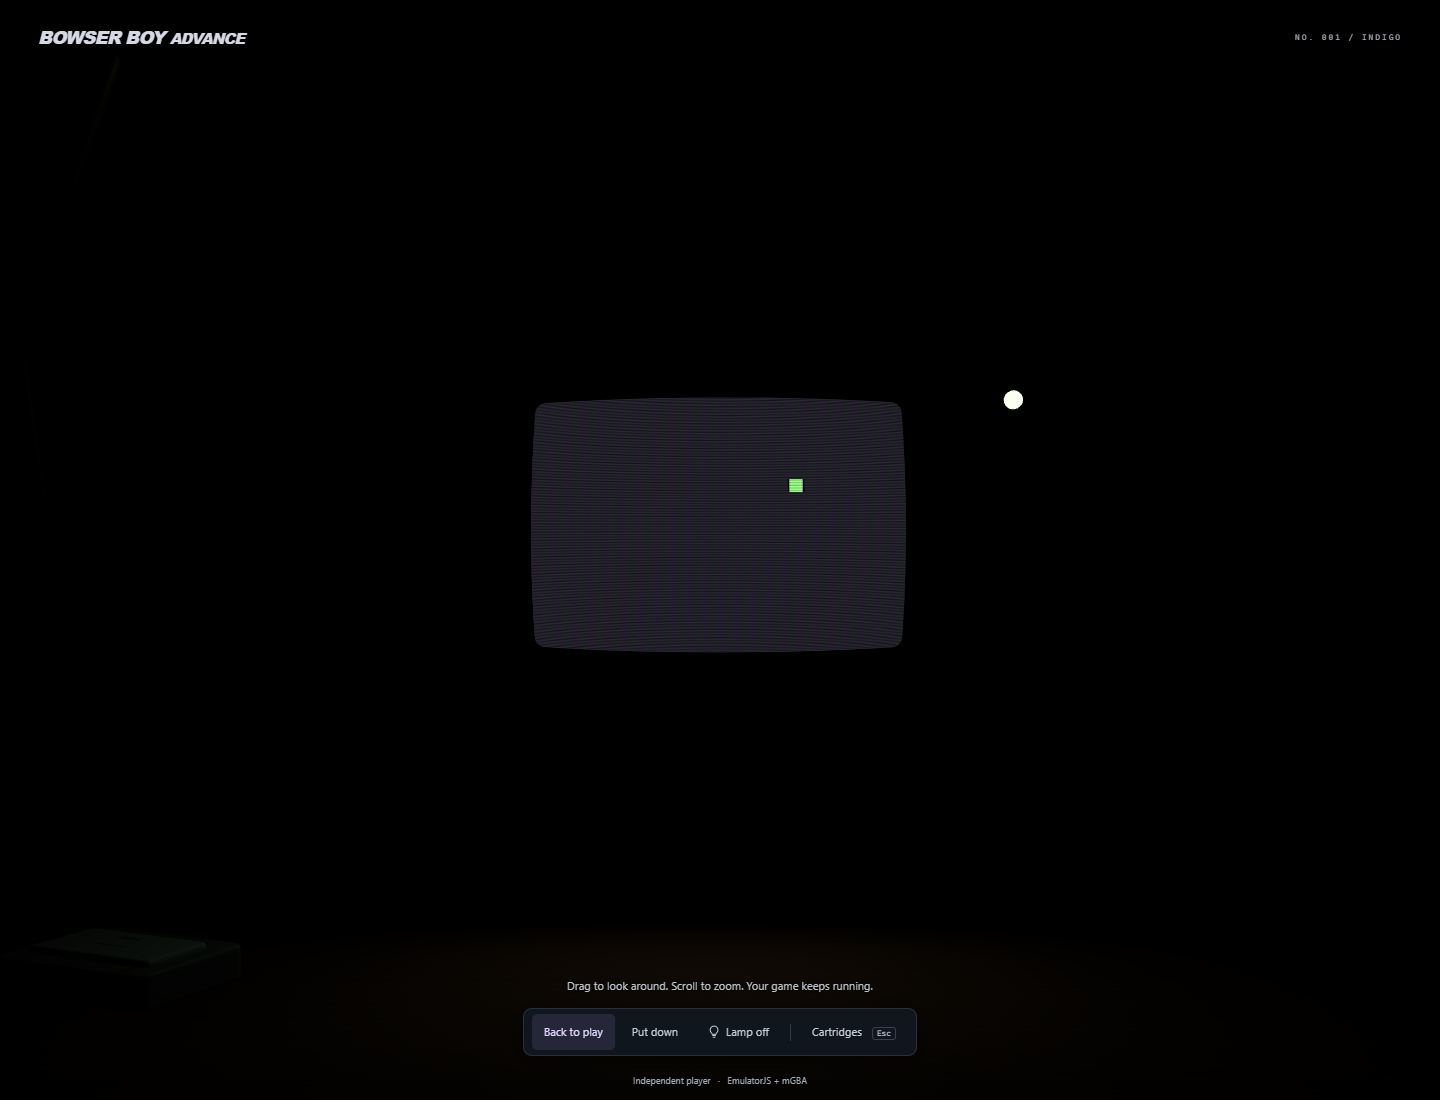
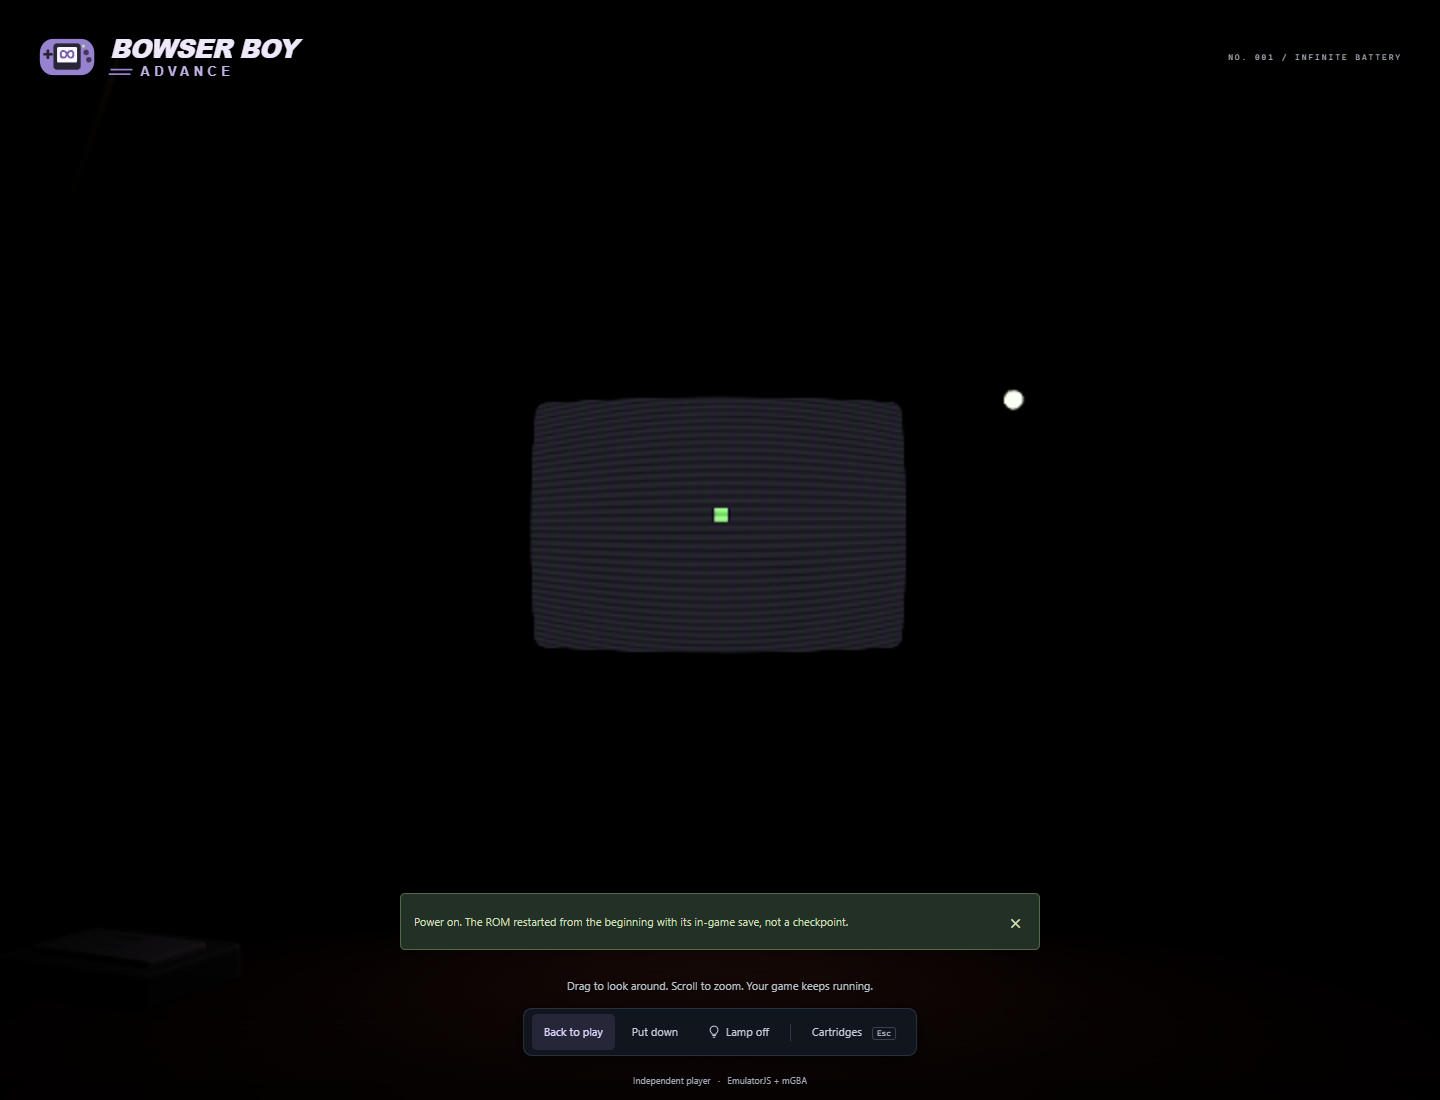
docs: explain remembered power and original startup
Record deployed startup behavior, local cartridge privacy, release evidence and refreshed original-demo screenshots.

Copilot-Session: 8e7d69ac-78f7-4310-8b8d-14bf8681a509

diff --git a/docs/VERIFICATION.md b/docs/VERIFICATION.md
@@ -65,6 +65,13 @@ controls, malformed values and configuration-string injection.
 - Static idle drawing and modal-backdrop suppression, transient versus sustained
   render stalls, adaptive backing dimensions and recovery frames without stopping
   inexpensive button/pose motion.
+- First use starts off; inserting a cartridge leaves it off. Actual physical
+  power-on displays the original LCD artwork and enables the same lighting path.
+- Idle power and a loaded cartridge survive refresh without another startup
+  animation. An on refresh restores its checked native checkpoint; explicit off
+  persists across refresh without creating an iframe.
+- Database v1-to-v2 upgrade preserves old game records; interrupted device writes
+  retain the previously committed power state.
 
 The original input-test ROM is generated from readable ARM instructions in
 `scripts/demo-rom.mjs`; it contains no copied Nintendo logo, BIOS or commercial
@@ -89,6 +96,7 @@ rendered mesh poses, including the rear battery cover.
 `docs/images/native-settings.png` shows the actual advanced native menu.
 `docs/images/lcd-light.png` shows the mostly dark original demo with the lamp off;
 `dark-power-off.png` shows the unlit room after screen power is removed.
+`docs/images/startup.png` shows the original power-on presentation and new logo.
 These are public-safe UI screenshots generated by browser tests, not artwork
 from a commercial ROM. Failure traces/screenshots stay in ignored `test-results`.
 
@@ -101,6 +109,8 @@ The original prototype outcomes are recorded in
 Native settings restoration is recorded in `TODO/09_NATIVE_SETTINGS.todo`.
 Dark-room lighting, render scheduling and the deployed release are recorded in
 `TODO/10_DARK_ROOM.todo`.
+Remembered power, startup and refreshed branding are in
+`TODO/11_STARTUP_AND_PERSISTENT_POWER.todo`.
 Do not treat this coverage description alone as a fresh passing test run.
 
 The reference-correction run finished with 9 unit and 13 Edge browser cases
@@ -153,6 +163,42 @@ slot, avoiding an immediate stale-frame recapture. This addresses the observed
 release path; it does not retroactively establish the cause of every historical
 intermittent mismatch. Real timer captures may subsequently replace that rolling
 slot. No assertion is skipped or satisfied through a mocked native core.
+
+## Startup and remembered-power release, 2026-11-04
+
+Source `ab4fc8850d0b67870dd431d4a398c5a3e98ac47d` passed build, both complete
+browser shards (22 cases) and actual Pages deployment in run `41753762933`.
+Fresh live Edge checked exact hashes of all 22 public assets, the original
+startup, first-visit off, last-cartridge reload with checked native resume,
+no startup replay on refresh, persistent explicit off, native settings at the
+top of the sidebar and unchanged CRT/lamp/input/power behavior. No page errors
+were reported. Original startup and refreshed UI screenshots were reviewed.
+This publication preceded final public documentation.
+
+Local syntax, build and all 10 unit cases passed. Expanded Edge coverage
+initially passed 21/22; the renamed-ROM fixture set a disabled file input while
+automatic restore was still busy. Waiting for input enablement fixed that
+actual-core case, which then passed in 34.4 seconds.
+Hosted run `41752150621` failed fixture races: closing a drawer that insertion
+was already closing, and refreshing before off intent had committed.
+Awaiting enabled physical power and the actual off acknowledgement preserved
+every assertion; all seven affected explicit-software cases passed in 2.6
+minutes before the successful complete hosted gate. These failures are not
+reclassified as passing runs.
+
+Final visual review caught an obsolete cartridge-insertion notice during boot.
+Source `78887d7007e8e6b78552811a00bd1d313769575d` hides it before startup,
+with a focused browser assertion. Pages `41755029718` passed build, both
+complete browser shards and deployment. Fresh live Edge repeated all 22 exact
+asset checks and the startup/refresh/native behavior checks with zero page
+errors. The final startup screenshot shows the original reveal without the notice.
+
+The preceding sidebar-only push `d222dc6` did not deploy: `41749371182` failed
+an existing mobile native-PNG equality assertion. GitHub denied rerun/dispatch
+permission. The subsequent genuine startup revision adapted the mobile fixture
+to the new power lifecycle and waits for its real completed demo frame; exact
+native pixel assertions remain intact. No empty commit, weaker gate or removed
+assertion forced either publication.
 
 ## Not verified here
 

diff --git a/docs/ARCHITECTURE.md b/docs/ARCHITECTURE.md
@@ -255,7 +255,8 @@ unchecked save system. Runtime, save and backup identities remain unchanged.
 
 The physical power switch is independent of pause. Power off flushes only
 battery memory, commits it, removes the iframe and clears the live LCD texture.
-The host retains the selected ROM File and battery bytes in memory. Power on
+The host retains the selected ROM File and battery bytes in memory and stores
+the last local cartridge plus power intent in a separate device record. Power on
 creates a new iframe, installs only battery memory and restarts the ROM. A
 failed persistent write leaves the old runtime on for recovery/export. If
 application save storage was unavailable initially but emulation remains
@@ -263,9 +264,48 @@ available, explicit session-only power cycling does not claim persistence.
 Globally denied IndexedDB can also prevent the pinned native runtime starting;
 the browser fixtures distinguish that boundary from denial of our save store.
 
+### Startup and remembered power
+
+Logical `powered` state is independent of native `running`: an empty cartridge
+slot or a failed CDN load does not silently flip the physical switch off.
+Only the power handler changes this intent after its checked device write.
+On first use the missing console record means off; inserting a cartridge leaves
+it off. Hydration serializes tools until the remembered console is restored.
+
+`src/startup.js` draws an original 240x160 white/indigo logo reveal into the
+same LCD texture/light path for 2.4 seconds. Reduced motion uses a static
+500 ms presentation. An original three-note sine-wave chime follows mute/volume;
+audio permission failures are reported without blocking gameplay indefinitely.
+No Nintendo recording, boot ROM or video is loaded. SVG header and favicon
+assets are original project artwork.
+
+Only a genuine off-to-on switch action calls that presentation, then cold-boots
+the cartridge with battery save data. Refresh while already on restores the
+stored ROM using normal checked resume selection, without calling startup.
+A refresh recreates the native process; it cannot promise every unsaved frame.
+An off console can retain its cartridge without creating an iframe.
+
+```mermaid
+flowchart TD
+    A[Read local console record] --> B{Remembered power?}
+    B -->|Missing or off| C[Dark LCD, retain inserted cartridge]
+    B -->|On| D[Reload cached cartridge and checked resume point]
+    C --> E[Physical power on]
+    E --> F[Commit on intent]
+    F --> G[Original LCD reveal and chime]
+    G --> H[Cold ROM boot with battery save]
+    D --> I[No startup replay]
+    H --> J[Physical power off]
+    I --> J
+    J --> K[Commit battery and off intent, then remove runtime]
+    K --> C
+```
+
 ## Persistent data
 
-`src/save-store.js` opens database `bowser-boy-advance`, version 1, store `games`.
+`src/save-store.js` opens database `bowser-boy-advance`, version 2. Upgrade
+adds a separate `device` store without deleting/replacing the existing `games`
+store or its records.
 The primary key is the ROM's SHA-256 digest. A record contains public file
 metadata, runtime identity and independent `automatic` / `manual` slots.
 Each slot has binary `state`, optional binary `sram` and an ISO timestamp.
@@ -273,8 +313,16 @@ Optional `battery` contains nullable `sram` and its capture timestamp. A
 `bootMode` of `battery` suppresses automatic checkpoint restoration after a
 deliberate power off; checkpoint writes set it back to `checkpoint` and update
 the battery copy atomically. Older records without these fields retain normal
-checkpoint-selection behavior. The version-1 object store and backup/runtime
-identities are unchanged. ROM bytes are not stored.
+checkpoint-selection behavior. The original game-record shape and backup/runtime
+identities are unchanged.
+
+The `device` store holds one `console` key: schema version 1, boolean `powered`
+and a nullable cartridge containing its name and Blob bytes. Reads validate
+shape/size; cached ROMs go through normal header validation and content hashing
+before launch. This is one locally cached active cartridge, not a ROM library
+or an upload. Device writes report success only after transaction completion.
+Aborted writes do not replace the previous switch state. Physical off flushes
+the battery first and retains the live runtime if either write fails.
 
 Writes read/update a record in one read-write transaction. Success is reported
 only on transaction completion, not the individual request. This prevents

diff --git a/README.md b/README.md
@@ -22,6 +22,26 @@ approximations, not a full global-illumination simulation.
 colored square contributes little light. The screen glow follows its actual
 orientation and colors, rather than a fixed room-wide fill.*
 
+## Infinite battery
+
+The first visit starts **powered off**, with a dark LCD. Pick up the handheld
+and use its physical bottom-edge switch. A short, original Game Boy-inspired
+logo reveal and synthesized chime play on the actual LCD only when switching
+from off to on. The chime follows volume/mute; reduced motion uses a static reveal.
+The website has a new original handheld/infinity logo and matching favicon.
+
+![The original power-on sequence on the handheld LCD](docs/images/startup.png)
+
+*An independently drawn Bowser Boy Advance startup, not a Nintendo BIOS,
+manufacturer logo or recording. Infinite battery; no automatic power-off timer.*
+
+Refresh remembers the switch position and the last inserted cartridge locally.
+If it was on, the cartridge reloads using its latest committed resume point,
+**without replaying startup**. If it was off, it stays off. Inserting a cartridge
+does not turn it on. Only the physical switch changes the power state.
+Browser refresh still creates a new emulator process; unsaved frames are not
+continuous across navigation. Save a checkpoint before refreshing.
+
 ## Play locally
 
 Node.js 22+ is required for the development commands, not for visitors to the
@@ -35,13 +55,16 @@ npm run dev
 
 Open **http://127.0.0.1:5173**. Click the handheld to pick it up, then open
 **Cartridges** or press **Escape** for the tools drawer. Choose an uncompressed **`.gba`**
-ROM you have the right to use, or select **Try the original demo**.
+ROM you have the right to use, or select **Try the original demo**. If the
+handheld is off, use its physical power switch to start.
 Pixel Lab is an original input-test cartridge: arrows move the square, holding
 **Z** changes its color, and **X** stores its horizontal position in cartridge SRAM.
 
 ROM bytes are read locally, not uploaded. No account, server-side library,
-commercial ROM or BIOS is included. ROM files are not retained; reselect yours
-next time. Internet is required for the versioned EmulatorJS/mGBA runtime.
+commercial ROM or BIOS is included. Only the last inserted ROM is retained in
+this browser's local storage so the console can survive refresh; it is not
+uploaded or added to a server-side collection. Clearing site data removes it.
+Internet is required for the versioned EmulatorJS/mGBA runtime.
 The 3D scene requires WebGL 2. Its decorative cartridges are not supplied games.
 
 ## Pick it up
@@ -102,7 +125,7 @@ Keys, sound and filter settings persist in checked local browser storage; failed
 explicitly apply only to the current session. Escape remains reserved for tools.
 Opening the drawer does not automatically pause gameplay.
 
-**Advanced EmulatorJS settings** opens the actual native graphics, speed,
+**Advanced EmulatorJS settings**, at the top of the sidebar, opens the actual native graphics, speed,
 screen-capture settings and backend core options in a separate panel. It keeps
 the current game and pause state intact; Escape or Close returns to Cartridges.
 Selections are remembered when the panel closes, including other native shaders.
@@ -162,6 +185,14 @@ The dark-room, 3D, native-settings and real-power redesign was deployed from
 build and both browser shards (Pages run `41746728238`). A fresh live-browser
 check verified all 19 public assets and the lamp, native demo, CRT, settings,
 button travel and power lifecycle before this documentation was finalized.
+The original branding/startup and remembered-power follow-up was deployed from
+`ab4fc8850d0b67870dd431d4a398c5a3e98ac47d` in Pages run `41753762933`.
+Both complete browser shards (22 cases), build and deployment passed. A fresh
+live browser verified all 22 public asset hashes and the actual startup,
+cartridge/power refresh behavior and prominent native-settings entry before
+this follow-up documentation.
+Final startup-notice cleanup `78887d7` also passed the complete gate, deployed
+in Pages run `41755029718` and passed fresh live verification.
 
 All application paths are relative. The browser suite serves the build under
 `/BowserBoyAdvance/`, rather than merely testing a domain-root development page.

diff --git a/docs/SAVING.md b/docs/SAVING.md
@@ -23,22 +23,33 @@ when a cartridge is selected. Turning it off lasts for the current page session.
 Use manual save/export before leaving; no asynchronous final write is guaranteed
 after a tab or browser shuts down.
 
-## Physical power switch
+## Remembered console and physical power switch
+
+A first visit starts off. The switch works with or without a cartridge.
+Inserting a ROM while off does not turn it on. Actual off-to-on plays the
+original LCD startup and chime; refreshing or changing cartridges does not.
+
+The last cartridge and power intent are stored locally in a separate console
+record. Refresh while on automatically reloads that ROM and follows its checked
+checkpoint/battery resume policy, without another startup sequence. Refresh
+while off retains the inserted cartridge but does not create an emulator.
+This remembers a virtual switch, not a continuously running CPU across browser
+navigation. Save first: the most recent unsaved frames are not guaranteed.
 
 Power off flushes the cartridge's in-game battery save, commits it separately
 from instant checkpoints, removes the emulator iframe and darkens the LCD/LED.
-The ROM remains in memory for this page session. Power on creates a fresh
+The last ROM remains in this browser's console record. Power on creates a fresh
 runtime and boots that ROM from its beginning with only the battery save.
 Use the game's own Continue/Load menu to continue an in-game save. Unsaved
 gameplay since that save is intentionally lost, just as on a physical handheld.
 
 Existing manual/automatic checkpoints are not erased or overwritten by the
-switch. After power off, reselecting the same ROM following a page reload
-also boots from its battery save rather than reviving a pre-power-off checkpoint.
+switch. After power off and reload the console stays off; switching on
+boots from its battery save rather than reviving a pre-power-off checkpoint.
 A subsequently captured checkpoint becomes eligible for normal ROM-selection
 resume again. The physical switch always cold-boots, regardless.
 
-If the battery write fails, power stays on so a backup can still be exported.
+If the battery or console-state write fails, power stays on so a backup can still be exported.
 If application save storage was unavailable from startup but the emulator
 still runs, a power cycle retains the battery save only in memory for this
 page session; an explicit warning is shown. Globally denying IndexedDB may
@@ -47,18 +58,22 @@ The separate Pause action in Cartridges preserves the current running session.
 
 ## Continue tomorrow
 
-Open the same site in the same browser profile and select the ROM again.
+Open the same site in the same browser profile. The last inserted ROM and switch
+position return automatically. If it is off, turn it on; if it is on, it reloads
+without another startup animation. You can also choose a different ROM.
 SHA-256 identity ignores the filename, so a renamed copy still works.
 Patches, translations or other byte changes create a different cartridge ID;
 the application does not guess whether another ROM's save might be compatible.
 
-Only game metadata, battery saves and checkpoints are retained, not a ROM collection. Selecting a
-ROM remains necessary after reopening the page.
+Only the last inserted ROM is cached, not a ROM collection. Other cartridges'
+metadata, battery saves and checkpoints remain content-keyed independently.
+Clearing/evicting browser storage removes this local cartridge and power intent
+along with its saves; it is not a backup or cloud synchronization.
 
 ## Move to another browser or device
 
 1. Export backup while the session is running and keep the downloaded file.
-2. Open BowserBoyAdvance on the other device and choose the exact same ROM.
+2. Open BowserBoyAdvance on the other device, choose the exact same ROM and turn it on.
 3. Import that `.bba-save` file and confirm replacement of the current session.
 
 Imports check application format/version, runtime identity, ROM digest, size,

diff --git a/THIRD_PARTY_NOTICES.md b/THIRD_PARTY_NOTICES.md
@@ -47,6 +47,12 @@ test program were created for this project. The generated test program omits
 the Nintendo boot-logo array and is intended for emulator testing, not as a
 claim of booting on physical retail hardware.
 
+The refreshed handheld/infinity logo, SVG favicon, LCD startup animation and
+three-note synthesized chime are independently authored assets. The user's
+[Game Boy Advance startup reference](https://www.youtube.com/watch?v=AyP1Nj9zU3k)
+informed the white-screen/colored-letter presentation, not an imported video,
+Nintendo logo, BIOS or audio recording. None of those reference bytes is bundled.
+
 Playwright is a development/test dependency, not part of the deployed app.
 Its package and transitive packages retain their upstream license notices in
 the dependency installation.
